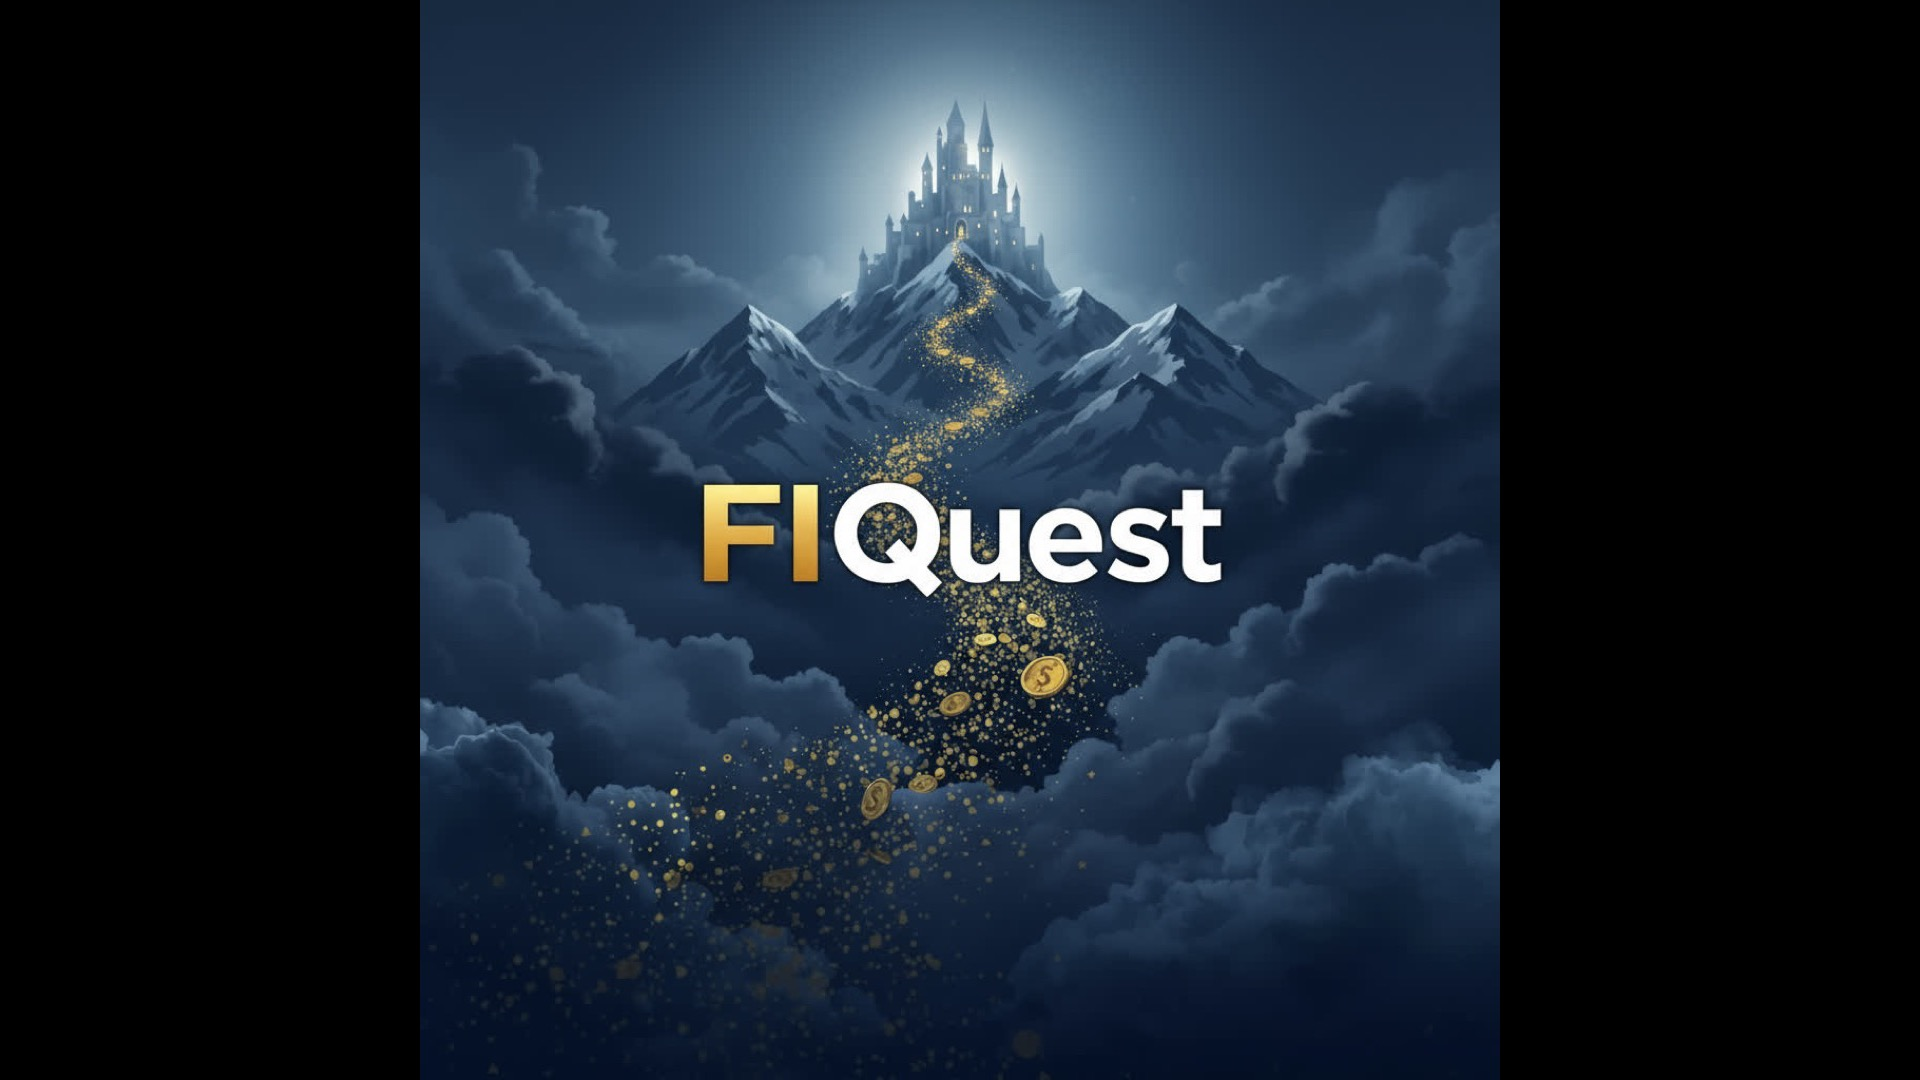
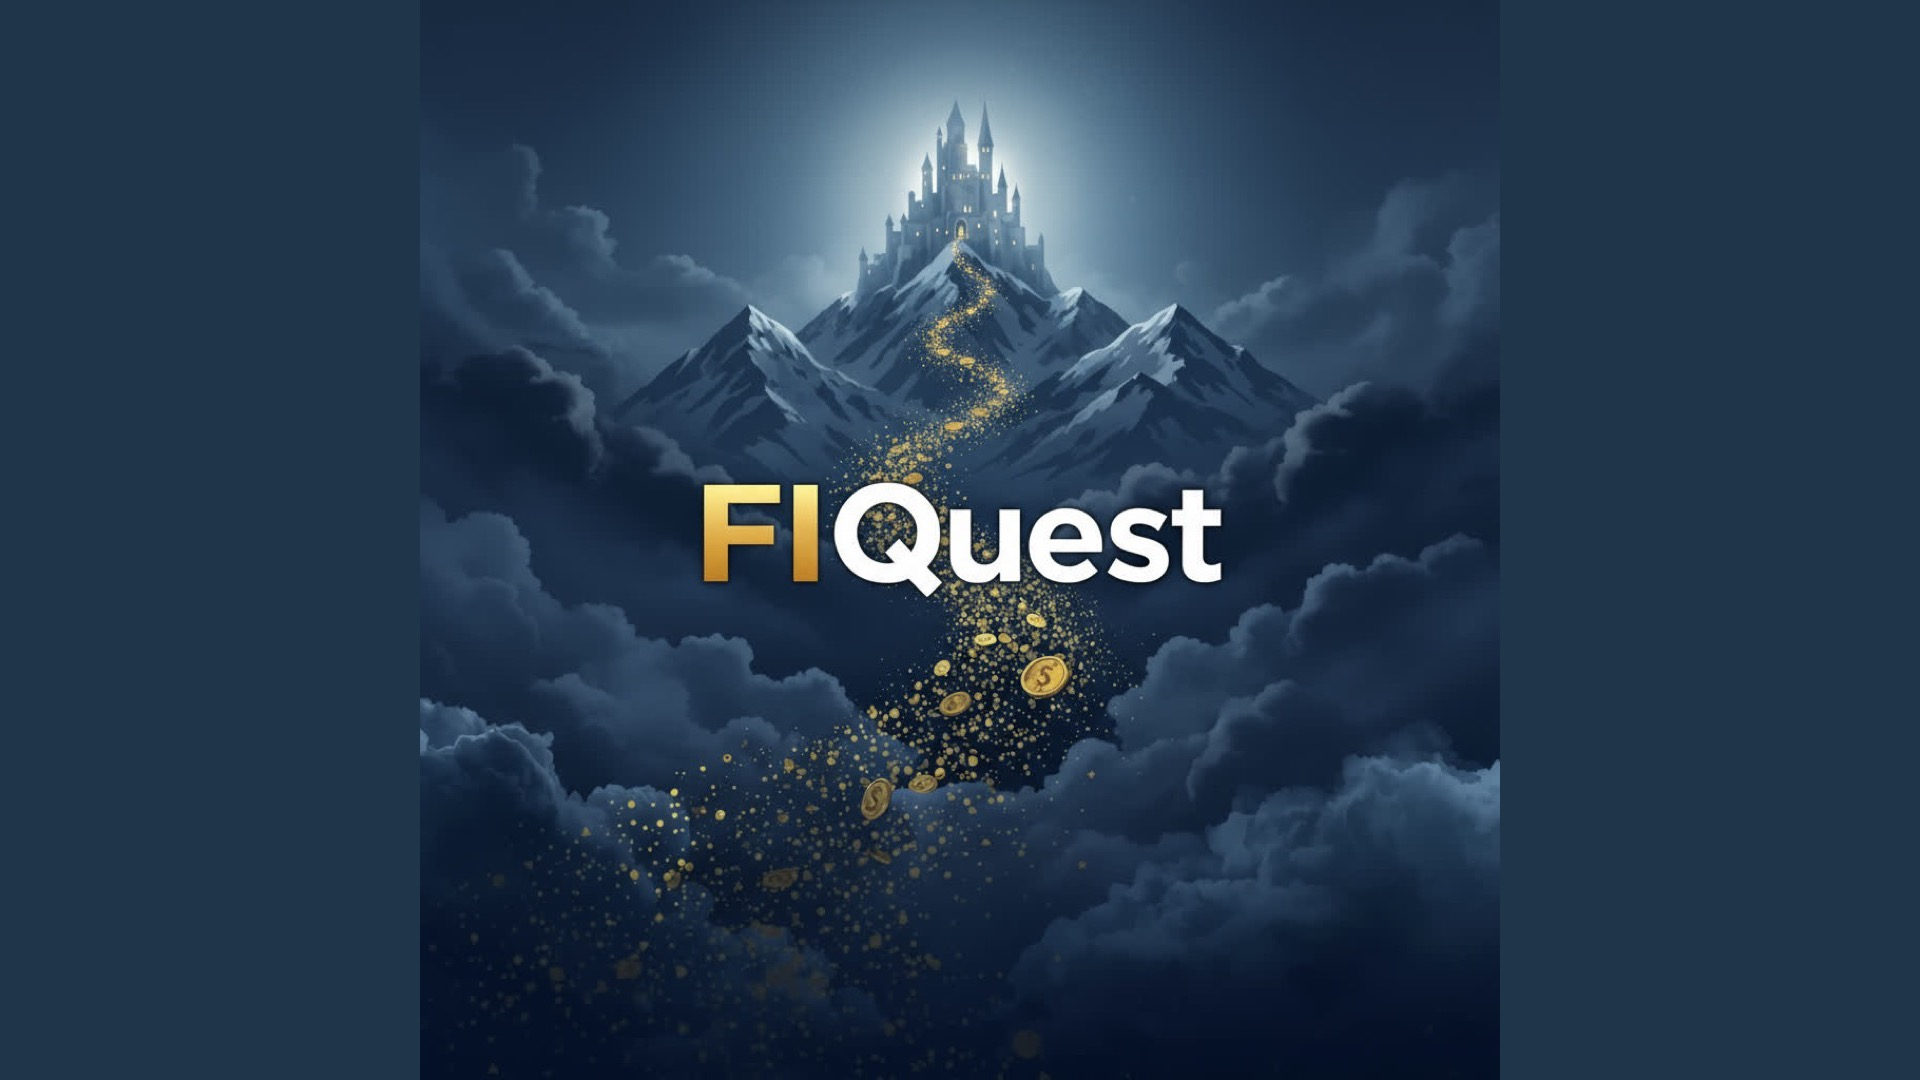
Update splash page with new AI-generated widescreen image
- Created FIQuestNBv1_wide.jpg (1920x1080) from square FIQuestNBv1.jpg
- Extended canvas with matching dark blue atmospheric color (#1f354a)
- Features castle on mountain, golden coin pathway, and FIQuest logo
- Updated index.html to use new wide image
- Layout preserved: centered image, letterbox bars, proper button positioning

diff --git a/index.html b/index.html
@@ -36,7 +36,7 @@
             position: relative;
             width: 100%;
             height: 75vh; /* Cinematic aspect ratio */
-            background-image: url('FIQuest.png');
+            background-image: url('FIQuestNBv1_wide.jpg');
             background-size: contain;
             background-position: center;
             background-repeat: no-repeat;
